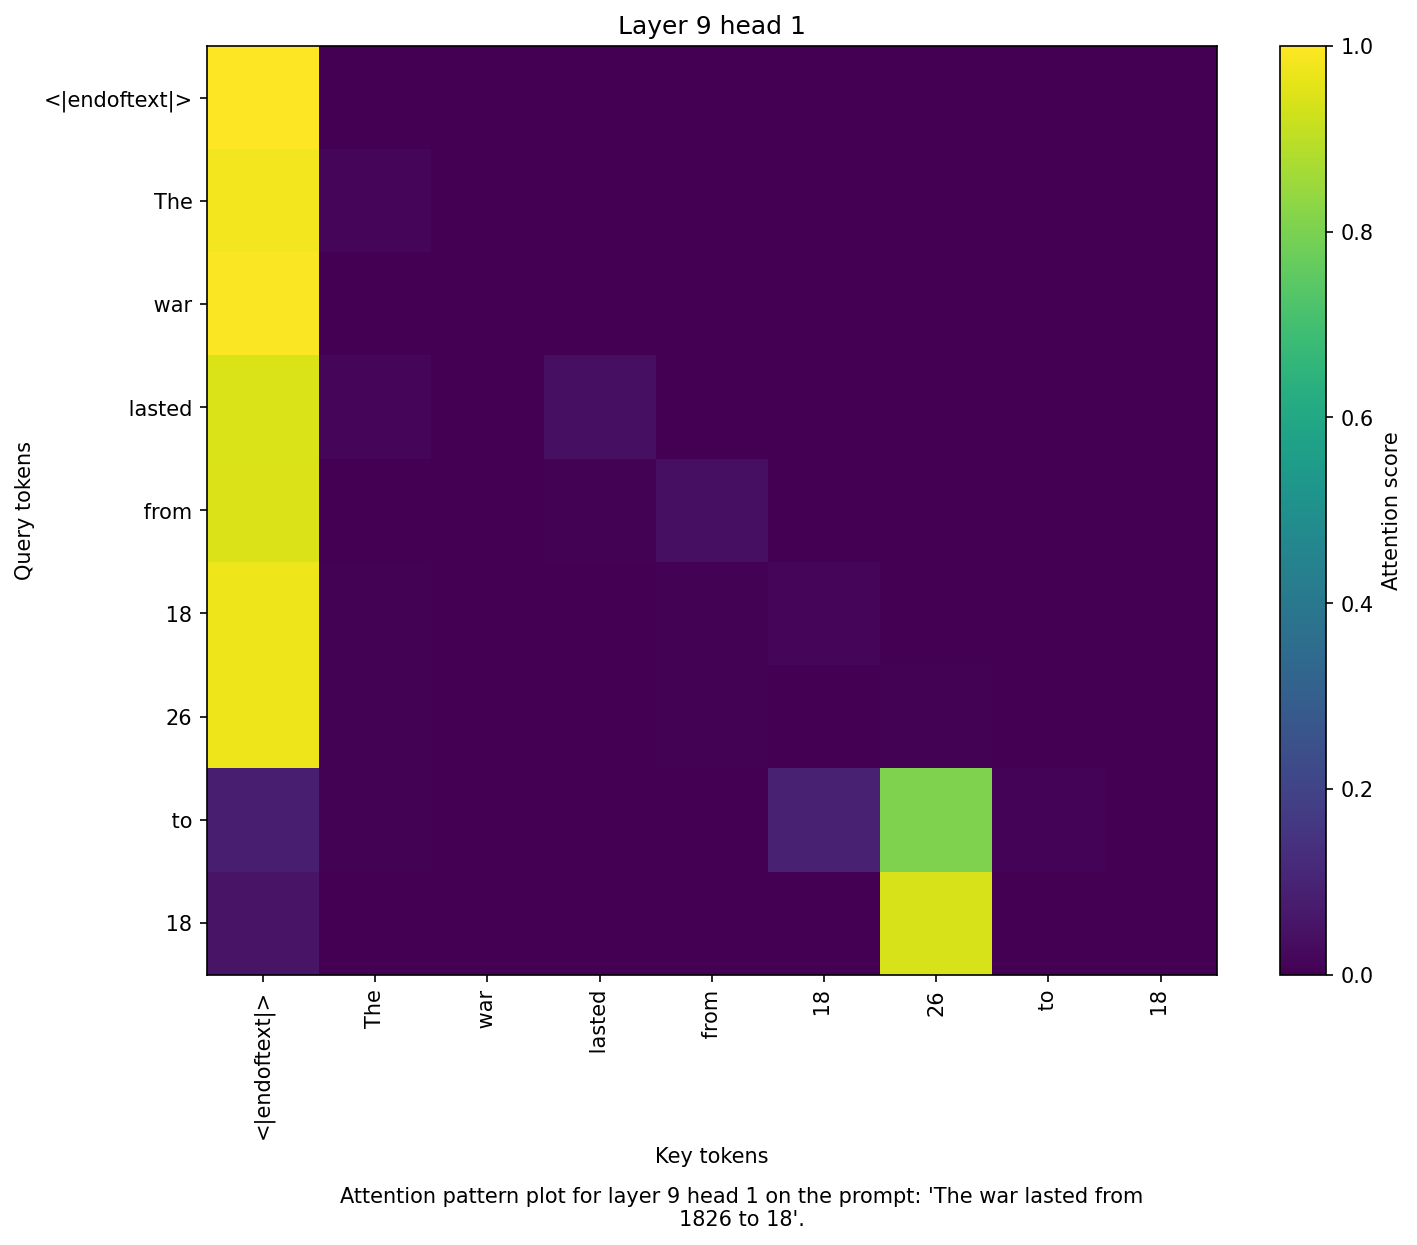
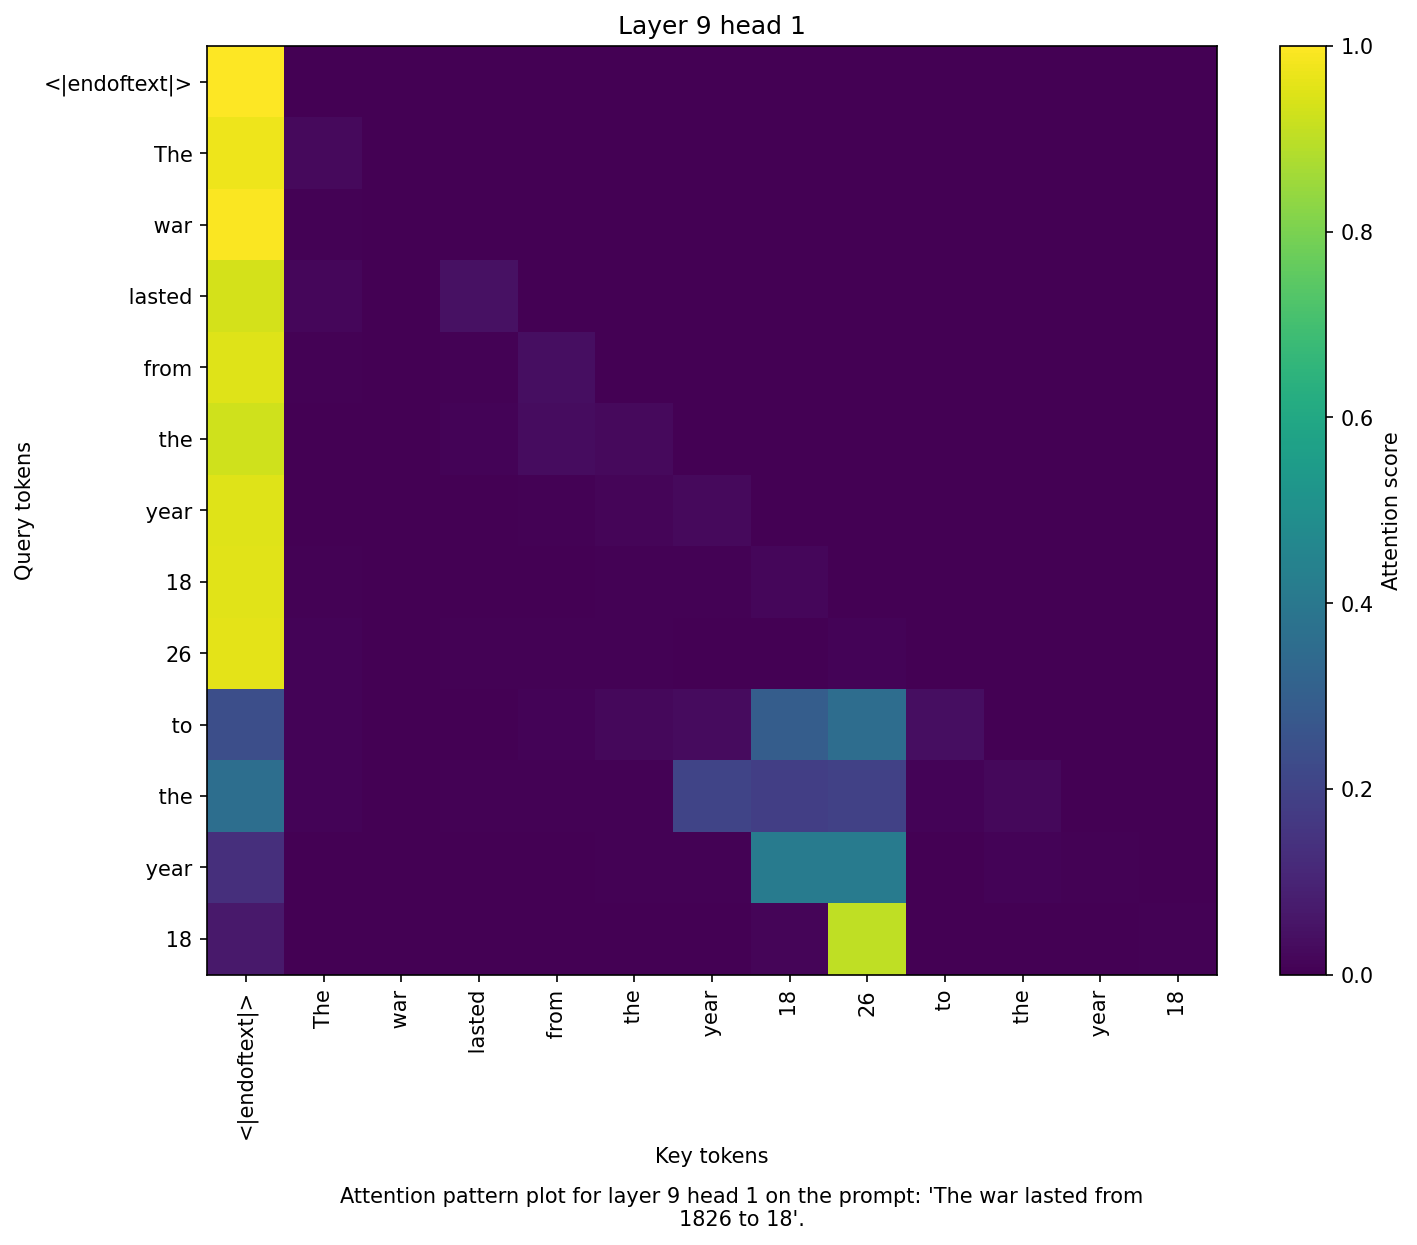
Fixed week one write up with corected figures and prompts (again)

diff --git a/data/greater_than_prompt_generation.py b/data/greater_than_prompt_generation.py
@@ -16,7 +16,7 @@ def generate_dataset(num_prompts):
         compare = "18" + str(num)
 
         # Construct the prompt
-        prompt = "The war lasted from " + compare + " to 18"
+        prompt = "The war lasted from the year " + compare + " to the year 18"
 
         # Save the generated number and prompt
         output.append((prompt, num))
@@ -34,7 +34,7 @@ def generate_full_dataset():
     for i in range(1, 100):
         # Construct the prompt
         num = f"{i:02d}"
-        prompt = "The war lasted from 18" + str(num) + " to 18"
+        prompt = "The war lasted from the year 18" + str(num) + " to the year 18"
 
         # Append prompt
         output.append((prompt, int(num)))

diff --git a/README.md b/README.md
@@ -6,26 +6,32 @@ The objective of the first week of this project was to identify important compon
 
 ### Methods and Setup
 
-All experiments used the TransformerLens library developed by Neel Nanda. The GPT-2 Small model was loaded through TransformerLens, and inferences were run on prompts of the form "The war lasted from 18XX to 18" where XX was a two digit number spanning 01 to 99. Since numbers ending in 00 are more common than numbers with other ending digits, we do not consider XX=00 to try to measure the natural behavior of the model. The prompt is crafted to provide a natural language setting for a mathematical task, intending to capture how the model may have encountered such a task in its training data; more prompt formats are explored in the ```setup``` folder of the repository. A possible extension to explore in week three of the project is to see how this circuit performs in other natural language greater than settings.
+All experiments used the TransformerLens library developed by Neel Nanda. The GPT-2 Small model was loaded through TransformerLens, and inferences were run on prompts of the form "The war lasted from the year 18XX to the year 18" where XX was a two digit number spanning 01 to 99. Since numbers ending in 00 are more common than numbers with other ending digits, we do not consider XX=00 to try to measure the natural behavior of the model. The prompt is crafted to provide a natural language setting for a mathematical task, intending to capture how the model may have encountered such a task in its training data; more prompt formats are explored in the ```setup``` folder of the repository. A possible extension to explore in week three of the project is to see how this circuit performs in other natural language greater than settings.
 
 ### Logit Lenses
 
-The first thing that we analyze is the logit lens per layer of the model. This was done by extracting the output of each layer's and then applying the final normalization layer and outward projection to get the logits. Logits for every prompt XX=01 to XX=99 were plotted to visualize the model's behavior on the overall task. Notably, the logit lenses have horizontal structure in layers 1-6, indicating that these layers do not perform the greater than computation (we would expect the predictions to begin developing a diagonal structure once the model is properly performing greater than). Diagonal structure initially develops in layer 7, and becomes more refined by layer 9, suggesting that these layers are where GPT-2 compute greater than.
+The first thing that we analyze is the logit lens per layer of the model. This was done by extracting the output of each layer's and then applying the final normalization layer and outward projection to get the logits. Logits for every prompt XX=01 to XX=99 were plotted to visualize the model's behavior on the overall task. Notably, the logit lenses have largely horizontal structure in layers 1-5, indicating that these layers do not perform the greater than computation (we would expect the predictions to begin developing a diagonal structure once the model is properly performing greater than). Diagonal structure first appears in layer 5, and becomes fully refined by layer 9, suggesting that these layers are where GPT-2 compute greater than.
 
 <p align="center"><img src="figures/logit_lens_layer_9_png.png" width="300"/></p>
 
 ### Ablation Tests
 
-To confirm our findings, we run ablation tests on the attention heads. The baseline accuracy of GPT-2 small is 94 correctly predicted prompts out of 99. First we run ablation tests layer by layer, zeroing out the attention outputs of every head per layer. Interestingly, we do not see a significant drop in model accuracy when we ablate layers 7 and 8, but see significant decrease in accuracy after ablating layers 0 and 9, with ablated accuracies of 75 and 91 out of 99 respectively. Since our logit lens indicates that layers 7 and 8 compute greater than but the attention ablation tests do not reveal any notable drops in performance, we suspect that the attention output of layers 7 and 8 must be indirectly contributing to the circuit.
+To confirm our findings, we run ablation tests on the attention heads. The baseline accuracy of GPT-2 small is 94 correctly predicted prompts out of 99. First we run ablation tests layer by layer, zeroing out the attention outputs of every head per layer. Interestingly, we do not see a significant drop in model accuracy when we independently ablate the attention layers 5 through 8, but see significant decrease in accuracy after ablating layers 0 and 9. Since our logit lens indicates that layers the layers 5 through 8 should aid in computing greater than but the attention ablation tests do not reveal any notable drops in performance, we suspect that the attention outputs of these layers must be indirectly contributing to the circuit.
 
-Going further in our attention head analysis, we are interested to see which localized attention heads are a part of the circuit. By ablating attention heads one by one, we find that layer 0 head 9 and layer 9 head 1 play a big role, with their ablated accuracies both being 90 out of 99. To investigate further, we try ablating every attention head in layer 9 except for head 1 and see that the model preserves its performance. Our layerwise ablation results are more interesting when inspecting the per head ablations in layer 0. While ablating the entire layer lead to an extreme decrease in accuracy, the individual ablations did not lead to a drop in accuracy of similar magnitude. This indicates that the role of layer 0 is distributed across its attention head rather than localized, and the layer as a whole acts as an integral component to the greater than circuit. As for layer 9, we found it was sufficient to ablate every attention head except for head 1 to maintain the model's performance.
+Going further in our attention head analysis, we are interested to see which localized attention heads are a part of the circuit. By ablating attention heads one by one, we find that layer 0 head 10 and layer 9 head 1 play a big role, with their ablated accuracies being 18 out of 99 and 90 out of 99 respectively. To investigate further, we try ablating every attention head in layer 9 except for head 1 and see that the model preserves its performance. The role of layer 0 appears to be largely localized in head 10, but ablating every head except for head 10 causes model accuracy to plummet to 0. We will investigate the role of the attention heads in layer 0 in greater detail later, for now it should just be noted that attention layer 0 is a key part of the greater than circuit.
 
-Next, we investigate ablating the MLPs for each layer. Here we find that the greater than circuit is significantly more MLP dependent than it is attention dependent. Ablating MLPs 0, 9, and 10 independently yields accuracies of 75, 68, and 82 respectively out of 99 prompts. It is evident that layer 9's MLP handles most of the heavy lifting with the greater than computation, and ablation tests with layer 9's MLP and the attention outputs of layers 7 and 8 reveals that the attention outputs of layers 7 and 8 interact superadditively with layer 9's MLP. Thus the attention outputs of layers 7 and 8 are not truly independent from the greater than circuit despite what the ablation test reveals, and instead their outputs contribute to MLP 9 directly or to some other component downstream.
-
-It is noteworthy to also discuss that the accuracy of the model dropped down to 75 out of 99 when ablating the attention outputs and when ablating the MLP. This means that layer 0 is foundational to the peformance of the model, something we expect out of an early layer which processes fundamental, basic pieces of information. Furthermore, experimenting with ablating combinations of attention heads in layer 0 actually dropped performance more than ablating the layer as a whole. This suggests an intra-layer head competition environment, where some heads actively improve the greater than performance and others inhibit it. I expect to dig deeper into this finding during my extension period.
+Next, we investigate ablating the MLPs for each layer. Here we find that the greater than circuit is significantly more MLP dependent than it is attention dependent. Ablating MLPs 0, 9, and 10 independently yields accuracies of 0, 77, and 88 respectively out of 99 prompts. An obvious takeaway here is that MLP 0 is a non-negotiable component of the greater than circuit, as it likely processes basic positional information that is used throughout the computation. Furthermore, it is also evident that layer 9's MLP handles most of the heavy lifting with the greater than computation. Inspired by our previous results suggesting that attention layers 5 through 8 indirectly contribute to the greater than computation, we try ablating attention layers 7 and 8 along with MLP 9. These layers actually interact superadditively, with the model accuracy dropping to 58 out of 99, as opposed to the baseline 77 out of 99 when ablating just MLP 9. Again, the roles of these upstream layers with regards to MLP 9 will be explored in greater detail in week two.
 
 ### Attention Analysis
 
-Finally, we visualize the attention patterns of the attention heads from important layers in our circuit. Plotting the attention patterns of layer 0 yields exactly what we would expect from an early layer that propogates basic positional information: some heads attend to the endoftext token, while some attend to the last token. When studying layers 7, 8, 9, we begin to see much more interesting structure. The heads in layer 7 almost exclusively attend to the first token, suggesting that information written to the residual stream from past layers is stored in the endoftext token. In layer 8, we see that head 6 begins to attend to the year token in the prompt, a pattern which continues into layer 9 where a much more refined attention head 1 (which we identified as important earlier) does the exact same thing. As such, these later layers process year information that is directly used in the greater than computation.
+Finally, we visualize the attention patterns of the attention heads from important layers in our circuit. Plotting the attention patterns of layer 0 yields exactly what we would expect from an early layer that propogates basic positional information: some heads attend to the endoftext token, while some attend to the last token. When studying layers 7, 8, 9, we begin to see much more interesting structure. The heads in layer 7 almost exclusively attend to the first token, suggesting that information written to the residual stream from past layers is stored in the endoftext token. In layer 8, we see that attention heads 6 and 8 begin to attend to the year token in the prompt, a pattern which continues into layer 9 where a much more refined attention head 1 (which we identified as important earlier) does the exact same thing. As such, these later layers process year information that is directly used in the greater than computation.
 
-<p align="center"><img src="figures/attn_pat_l7_h2.png" width="300"/><img src="figures/attn_pat_l9_h1.png" width="300"/><p>
+<p align="center"><img src="figures/attn_pat_l7_h2.png" width="300"/><img src="figures/attn_pat_l8_h8.png" width="300"/><img src="figures/attn_pat_l9_h1.png" width="300"/><p>
+
+## Week Two
+
+This week will focus on confirming our initial findings from week one. Our goal is to concretely identify the components of the circuit and understand the flow of information through the model. This will be achieved through iterative path patching where we experiment on the different edges in the computational graph of GPT-2 small. A number of things need to fundamentally change in our experiments to achieve clean results. Notably, our use of binary accuracy in week one will not be effective anymore since it does not reflect internal shifts in the model's capabilities. Following the procedure of the original Hanna et. al paper, we will measure the difference in the probabilities that the model assigns to years greater than XX and probabilities that the model assigns to years less than or equal to XX.
+
+### Path Patching
+
+The first thing that we will path patch is the direct logit contribution of each component. We will consider the 144 attention heads and 12 MLP layers as candidates for components.
